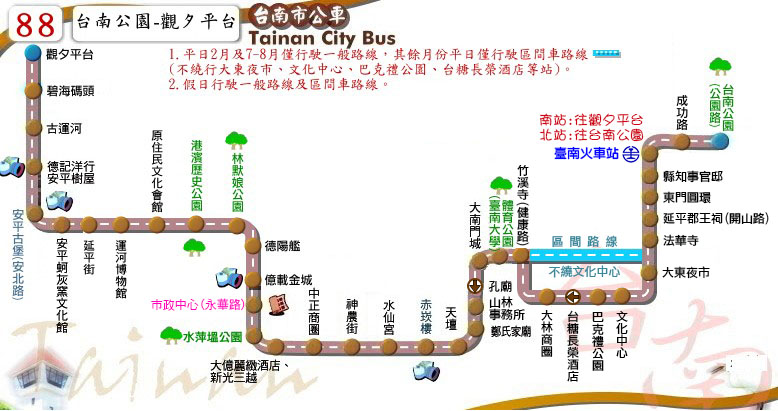
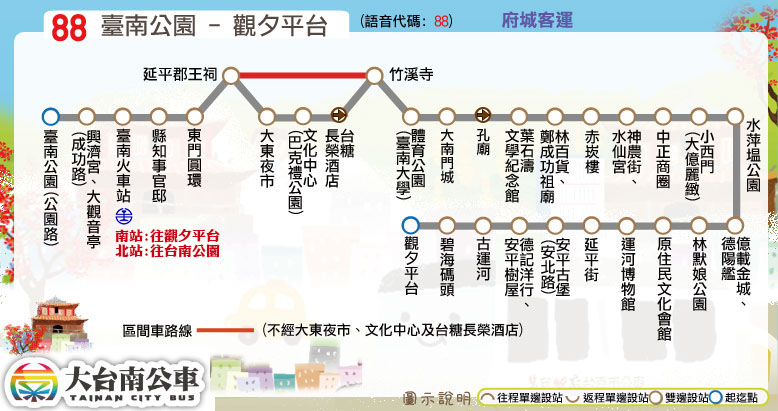
站位更動：88、99路(裁撤部分站位、部分站位更名)

diff --git a/route/fare_and_time/tour_bus_88.js b/route/fare_and_time/tour_bus_88.js
@@ -1,9 +1,9 @@
 // format = [time at the start stop] or
 // [time, other] or
 // [time, start_stop, end_stop, other]
-tour_bus_88_main_stop_name = ["臺南公園<br />(公園路)","臺南<br />火車站","延平郡王祠<br />(開山路)","文化<br />中心","孔廟","赤崁樓","神農街","市政中心<br />(永華路)","億載<br />金城","安平古堡<br />(安北路)","觀夕<br />平台"];
-tour_bus_88_main_stop_time_consume = [0, 5, 12, 18, 30, 35, 38, 47, 53, 63, 70];
-tour_bus_88_important_stop = [0, 1, 10]; // 臺南公園(公園路), 臺南火車站, 觀夕平台
+tour_bus_88_main_stop_name = ["臺南公園<br />(公園路)","臺南<br />火車站","延平<br />郡王祠","文化中心","葉石濤文<br />學紀念館","赤崁樓","神農街、<br />水仙宮","小西門<br />(大億麗緻)","億載<br />金城","原住民<br />文化會館","安平古堡<br />(安北路)","觀夕<br />平台"];
+tour_bus_88_main_stop_time_consume = [0, 5, 12, 18, 30, 35, 38, 43, 53, 56, 63, 70];
+tour_bus_88_important_stop = [0, 1, 3, 5, 9, 11]; // 臺南公園(公園路), 臺南火車站, 文化中心, 赤崁樓, 原住民文化會館, 觀夕平台
 skip_stop = 3; // 孔廟
 tour_bus_88_time_go = [["09:00",[skip_stop,[skip_stop,-10]]],["10:00",[skip_stop,[skip_stop,-10]]],
 ["11:00",[skip_stop,[skip_stop,-10]]],["12:00",[skip_stop,[skip_stop,-10]]],["13:00",[skip_stop,[skip_stop,-10]]],
